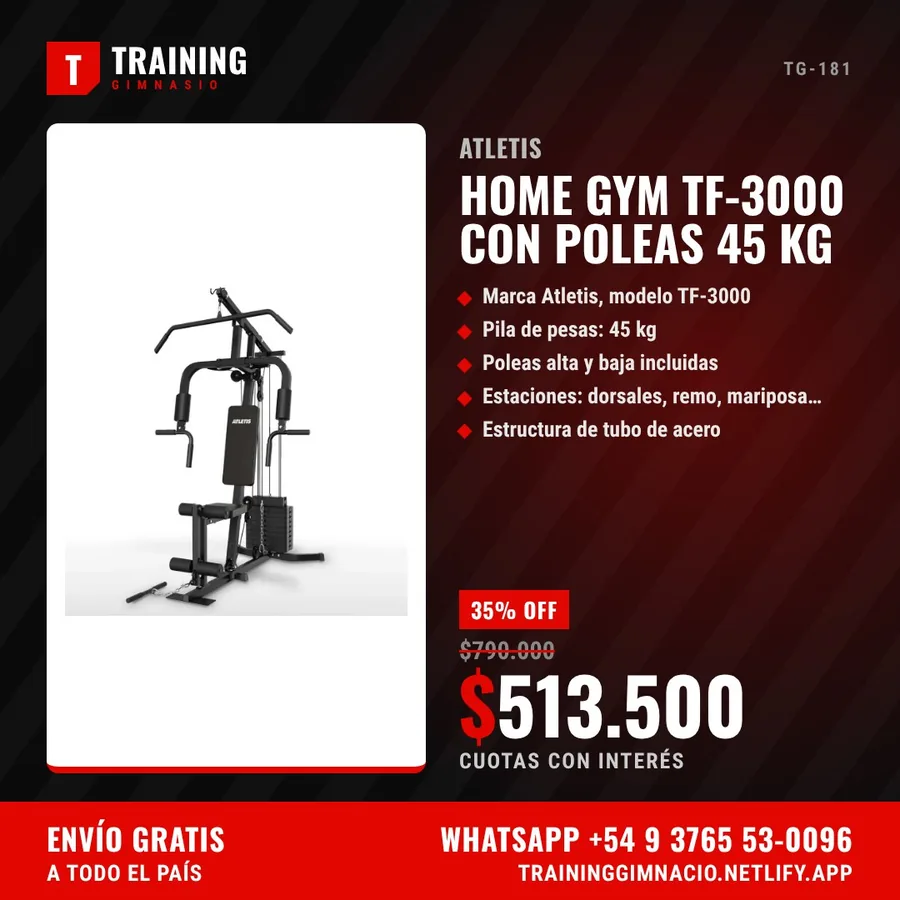
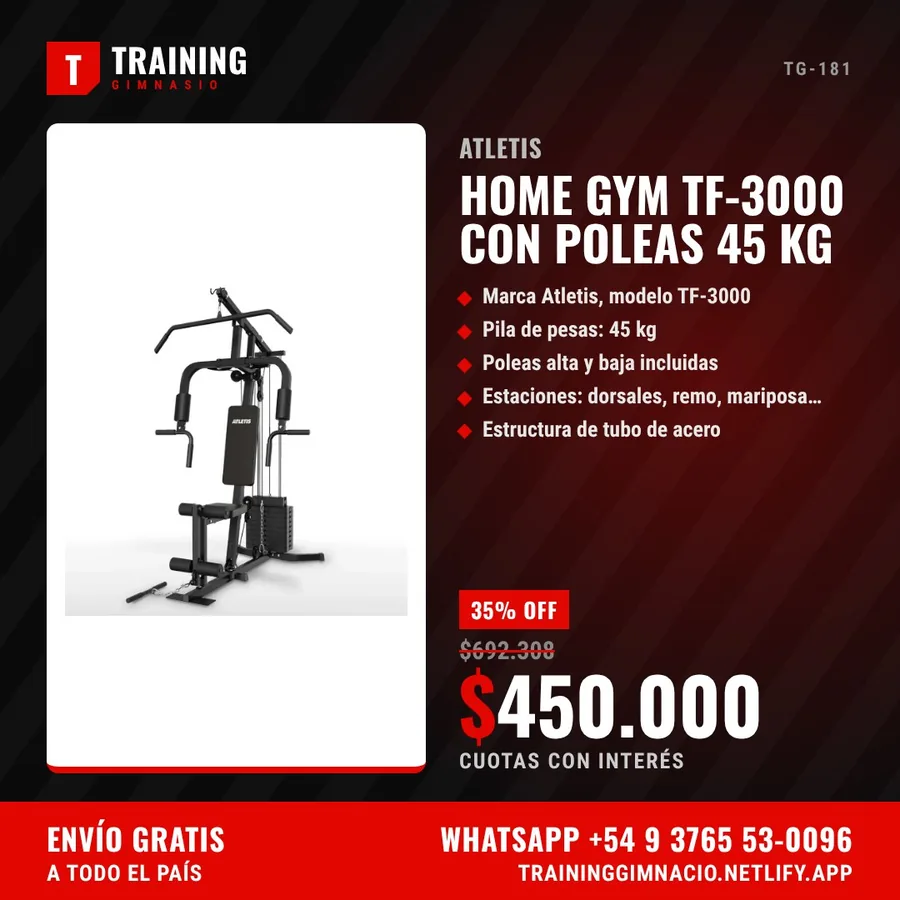
Set the Atletis TF-3000 to 450,000 (35% off 692,308)

Changed region(s): [[0.5289, 0.7156, 0.8711, 0.84]]

diff --git a/training-gimnasio/script.js b/training-gimnasio/script.js
@@ -684,8 +684,8 @@ const PRODUCTOS = [
     marca: "Atletis",
     nombre: "Home Gym TF-3000 con poleas 45 kg",
     categoria: "fuerza",
-    precio: 513500,
-    precioAnterior: 790000,
+    precio: 450000,
+    precioAnterior: 692308,
     condicion: null,
     etiqueta: "35% OFF",
     resumen: "Estación multifunción con pila de 45 kg, polea alta y baja, mariposa, sillón de piernas y banco. Para entrenar todo el cuerpo en casa.",

diff --git a/training-gimnasio/README.md b/training-gimnasio/README.md
@@ -38,7 +38,7 @@ El catálogo tiene 29 productos con sus precios:
 | TG-27 | Mini tramp MIR Fitness | Consultar precio |
 | TG-28 | Tatami encastrable de goma EVA | Consultar precio |
 | TG-29 | Cama de Pilates reformer completa (35% OFF, antes $350.000) | $227.500 |
-| TG-181 | Home Gym Atletis TF-3000 con poleas 45 kg (35% OFF, antes $790.000) | $513.500 |
+| TG-181 | Home Gym Atletis TF-3000 con poleas 45 kg (35% OFF, antes $692.308) | $450.000 |
 
 Cada producto tiene una ventana de detalle con galería de fotos, descripción completa y características.
 
